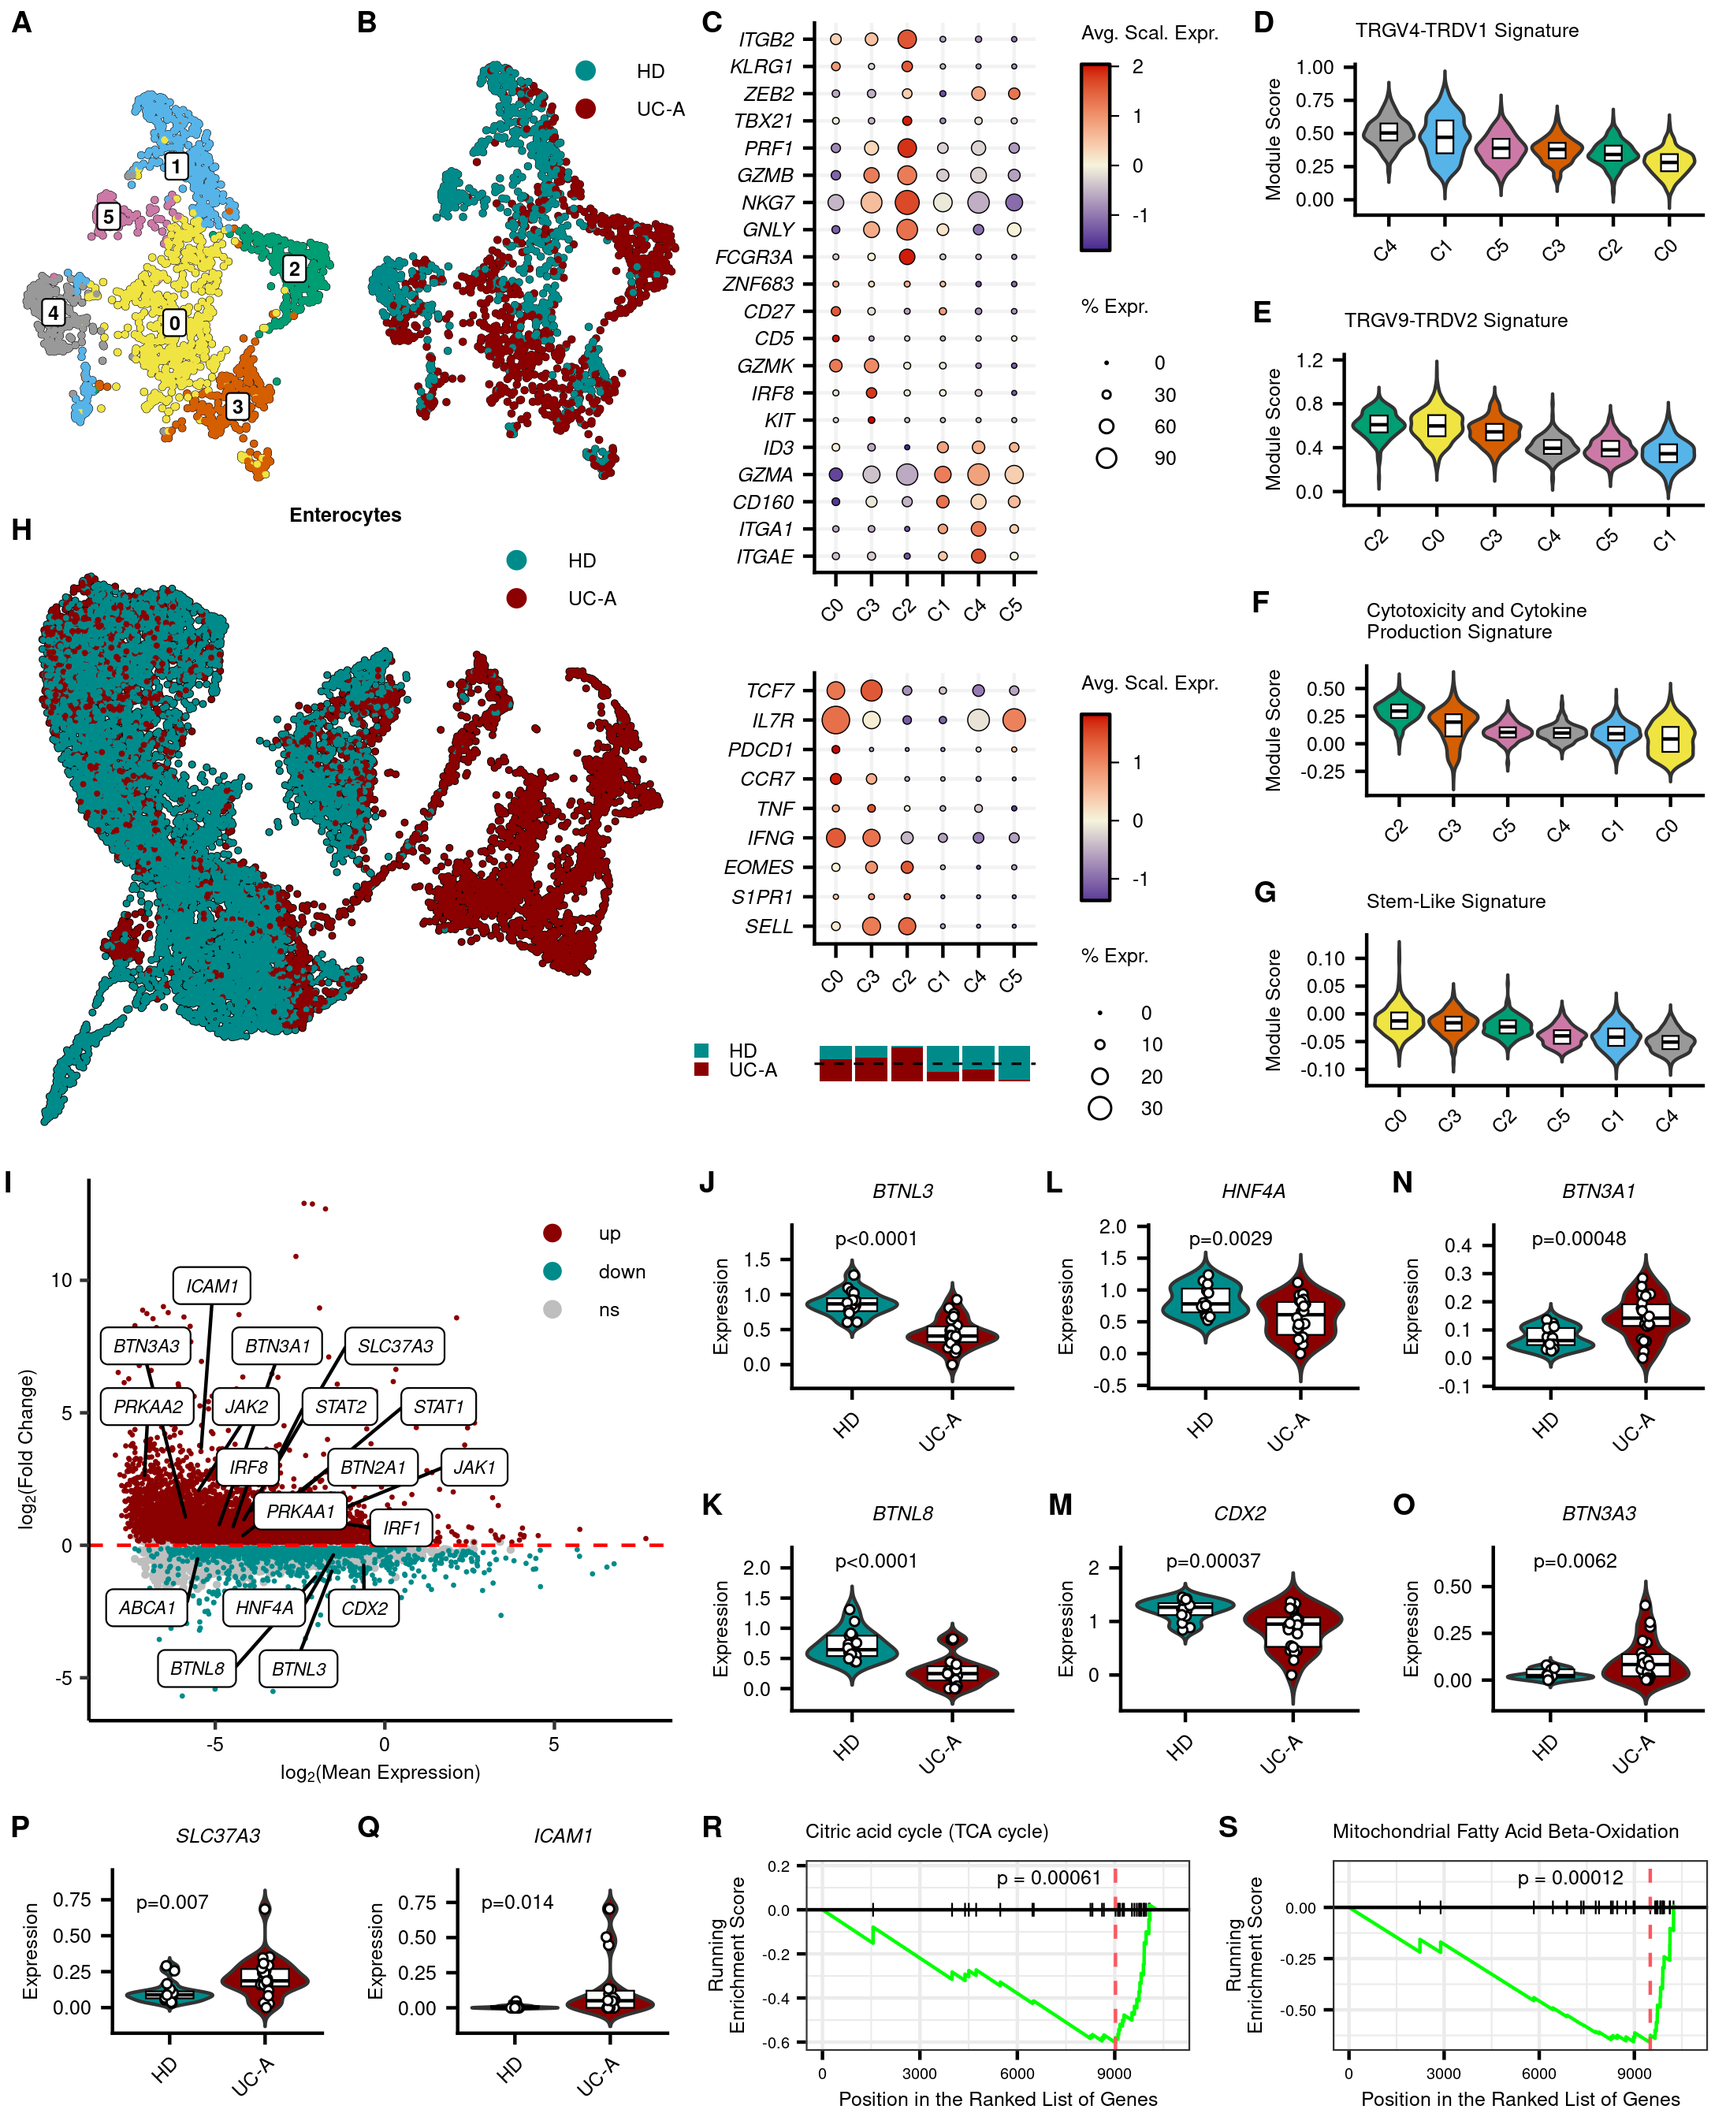
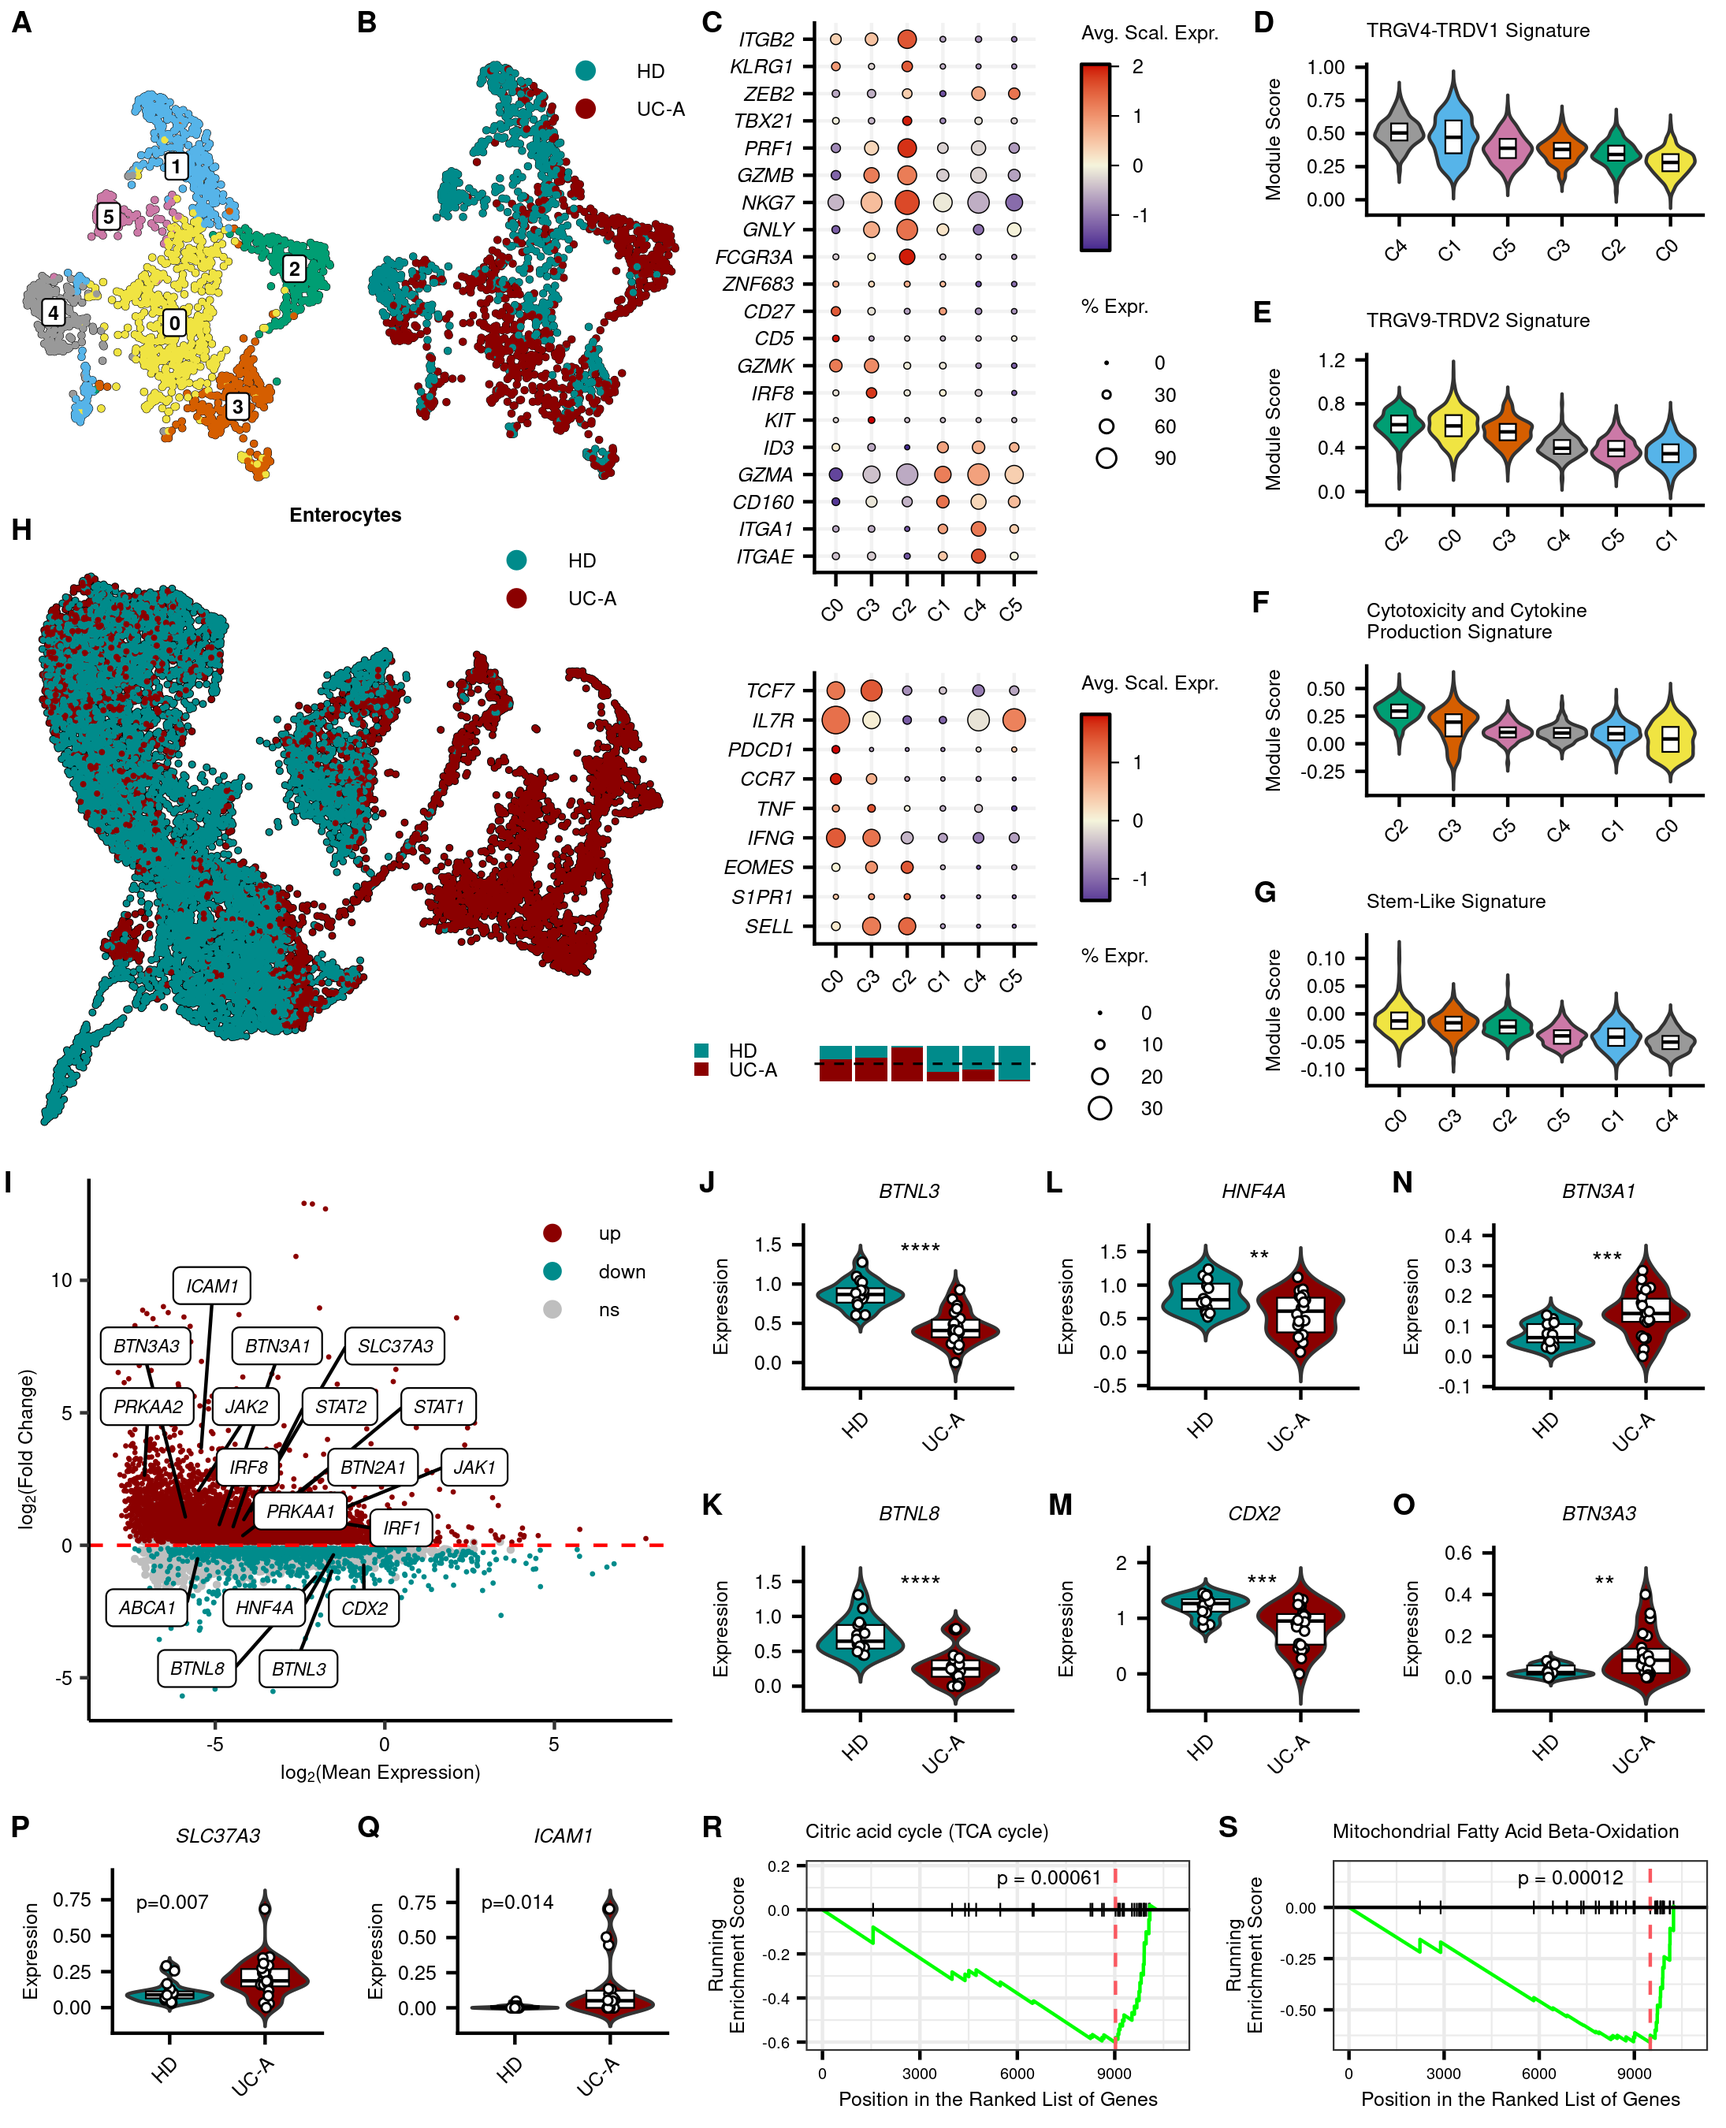
update

diff --git a/2_figures_code/Li21_Smillie19/Li21_Smillie19_Figures.md b/2_figures_code/Li21_Smillie19/Li21_Smillie19_Figures.md
@@ -244,7 +244,8 @@ for (i in seq_along(defg)){
 
 defg <- ggarrange(defg[[1]], defg[[2]], defg[[3]], defg[[4]],
                   ncol=1, nrow=4, font.label=list(size=9, face="bold", family="sans"),
-                  labels=c("D", "E", "F", "G")
+                  labels=c("D", "E", "F", "G"),
+                  align="v"
                   )
 ```
 
@@ -334,27 +335,29 @@ jklmo <- VlnPlot_scCustom(entero_pb,
         plot.title=element_text(face="italic", size=6),
         text=element_text(size=6),
         axis.text=element_text(size=6)
-        )
+        )&
+  stat_compare_means(method="t.test", label.x=1.5, bracket.size=0, size=2.82, label="p.signif")
 
 for (i in seq_along(jklmo)){
   jklmo[[i]][["layers"]][[1]][["stat_params"]][["trim"]] <- FALSE
 }
 
-test <-   function(pos=NULL){
-  stat_compare_means(bracket.size=0, method = "t.test", label.y=pos, size=2.12,
-  aes(label = ifelse(..p.. < 0.0001, "p<0.0001", paste0("p=", ..p.format..)))
-                    )
-                        }
-jklmo[[1]]<-jklmo[[1]]+test(1.7)
-jklmo[[2]]<-jklmo[[2]]+test(1.7)
-jklmo[[3]]<-jklmo[[3]]+test(0.4)
-jklmo[[4]]<-jklmo[[4]]+test(2)
-jklmo[[5]]<-jklmo[[5]]+test(2)
-jklmo[[6]]<-jklmo[[6]]+test(0.6)
+# test <-   function(pos=NULL){
+#   stat_compare_means(bracket.size=0, method = "t.test", label.y=pos, size=2.12,
+#   aes(label = ifelse(..p.. < 0.0001, "p<0.0001", paste0("p=", ..p.format..)))
+#                     )
+#                         }
+# jklmo[[1]]<-jklmo[[1]]+test(1.7)
+# jklmo[[2]]<-jklmo[[2]]+test(1.7)
+# jklmo[[3]]<-jklmo[[3]]+test(0.4)
+# jklmo[[4]]<-jklmo[[4]]+test(2)
+# jklmo[[5]]<-jklmo[[5]]+test(2)
+# jklmo[[6]]<-jklmo[[6]]+test(0.6)
 
 jklmo <- ggarrange(jklmo[[1]], jklmo[[2]], jklmo[[3]], jklmo[[4]], jklmo[[5]], jklmo[[6]],
                    ncol=3, nrow=2, font.label=list(size=9, family="sans", face="bold"),
-                   labels=c("J", "L", "N", "K", "M", "O")
+                   labels=c("J", "L", "N", "K", "M", "O"),
+                   align="v"
                    )
 ```
 

diff --git a/2_figures_code/Thomas_24/Thomas_24_figures.md b/2_figures_code/Thomas_24/Thomas_24_figures.md
@@ -84,13 +84,9 @@ gd_plots <- gd_plots&
   stat_compare_means(
     method="t.test",
     paired=T,
-    aes(label=ifelse(
-      ..p.. < 0.001,
-      "p<0.001",
-      paste0("p=", ..p.format..))),
-    label.x=1.25,
-    vjust=-1,
-    size=2.12
+    label.x=1.5,
+    size=2.82,
+    label="p.signif"
   )
 ```
 
@@ -141,20 +137,17 @@ entero_plots <- entero_plots&
   stat_compare_means(
     method="t.test",
     paired=T,
-    aes(label=ifelse(
-      ..p.. < 0.001,
-      "p<0.001",
-      paste0("p=", ..p.format..))),
-    label.x=1.25,
-    vjust=-1,
-    size=2.12
+    label.x=1.5,
+    size=2.82,
+    label="p.signif"
   )
 ```
 
 ``` r
 hijklm <- ggarrange(NULL, gd_plots[[1]], gd_plots[[2]], gd_plots[[3]], entero_plots[[6]], entero_plots[[7]],
                     labels=c("H", "I", "J", "K", "L", "M"),
-                    font.label=list(size=9, face="bold", family="sans")
+                    font.label=list(size=9, face="bold", family="sans"),
+                    align="v"
                     )
 ```
 
